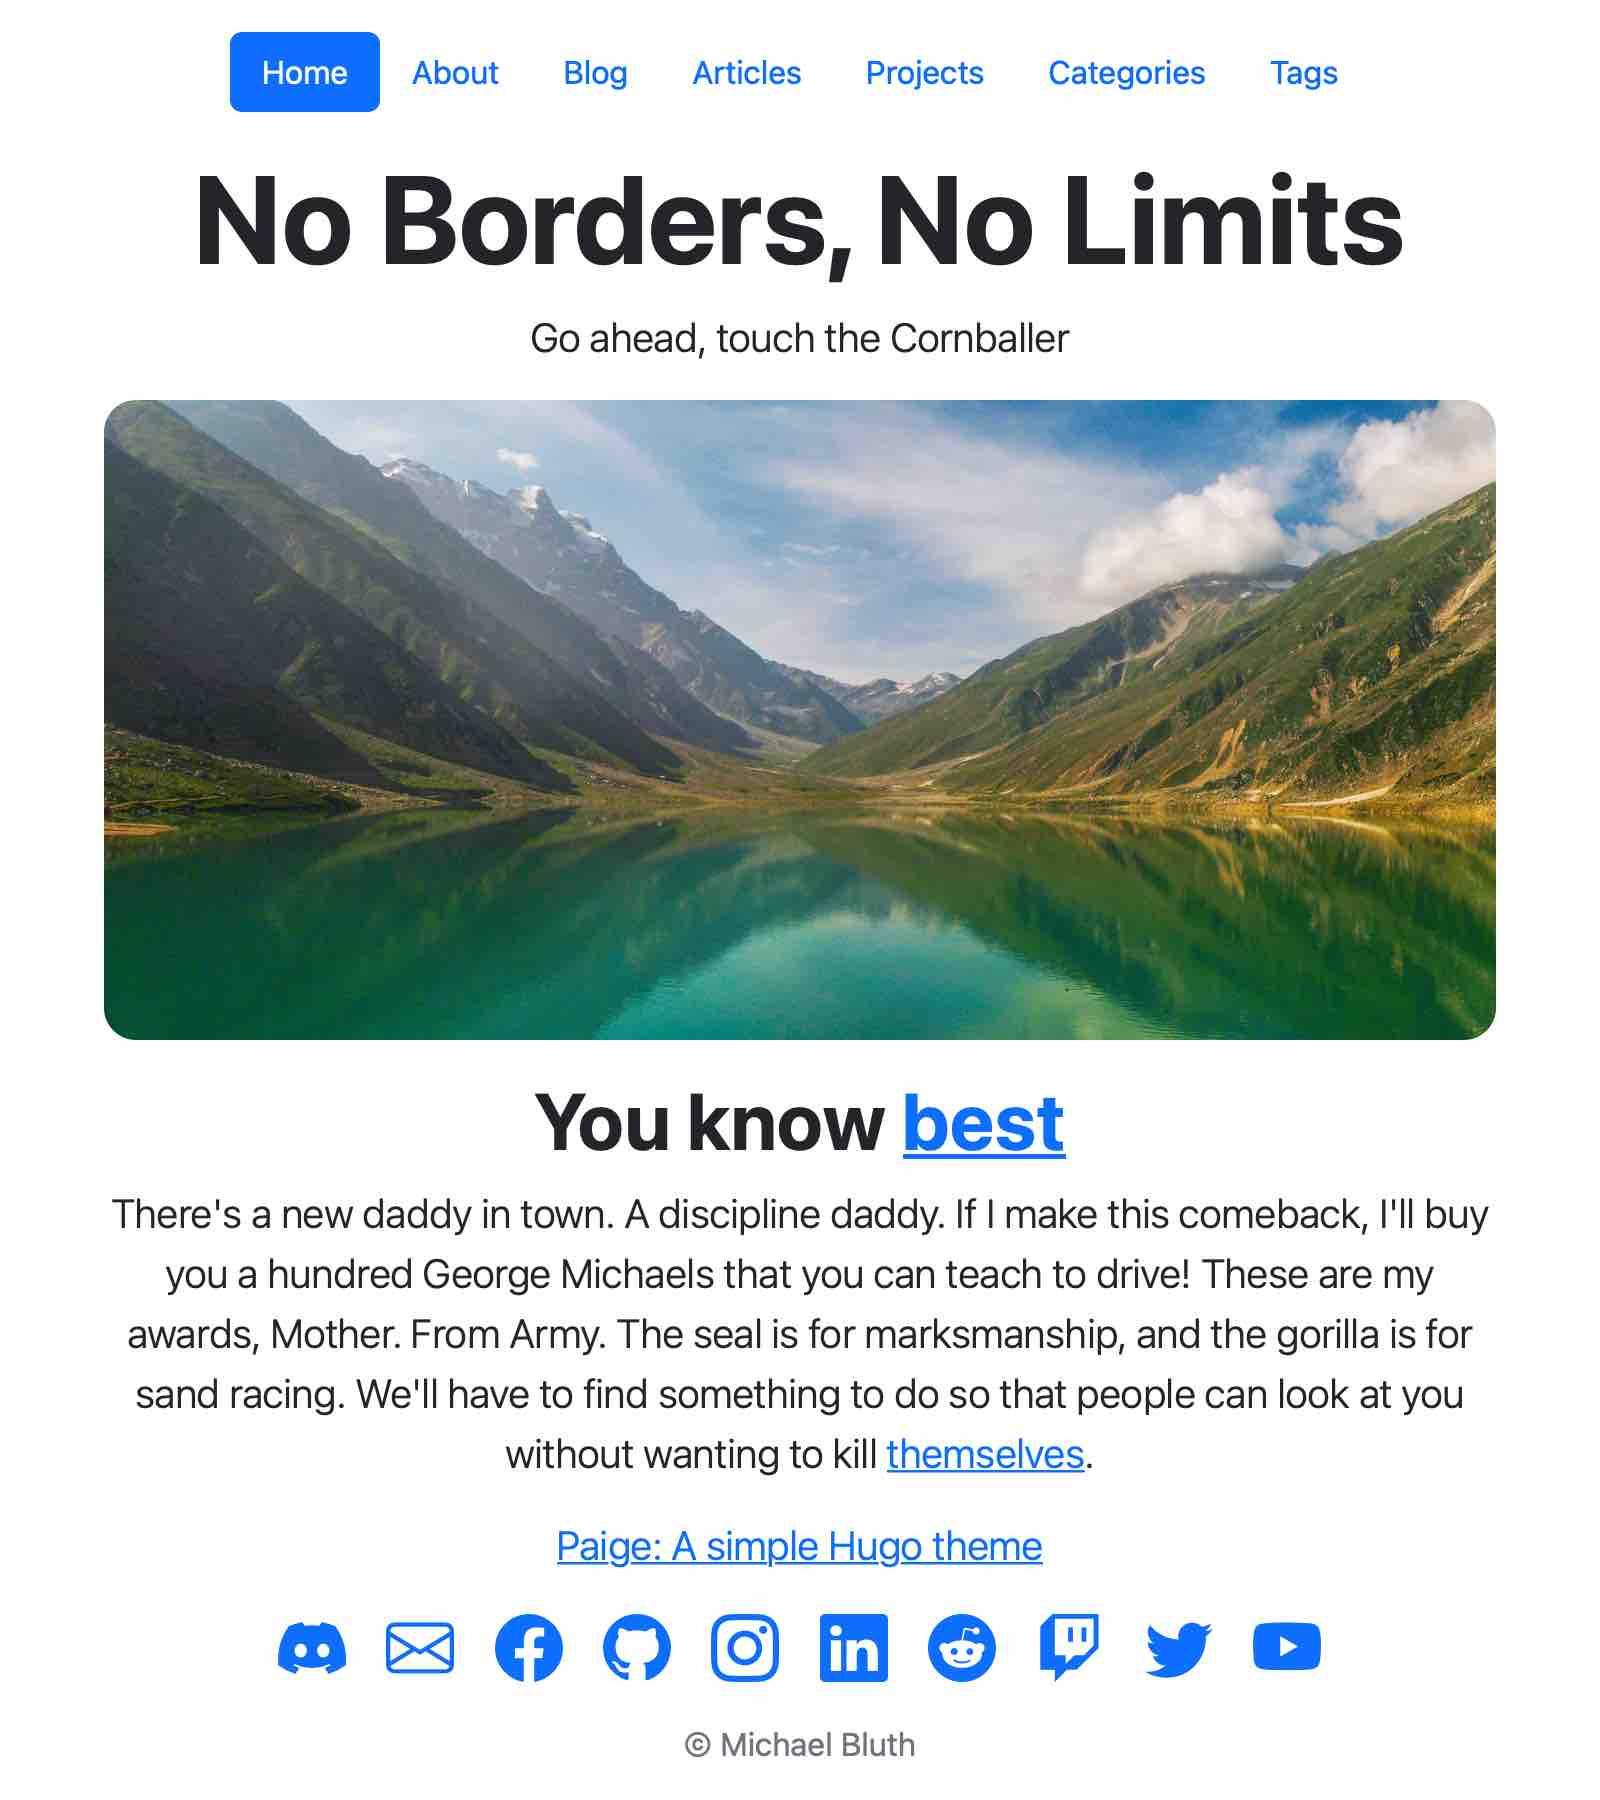
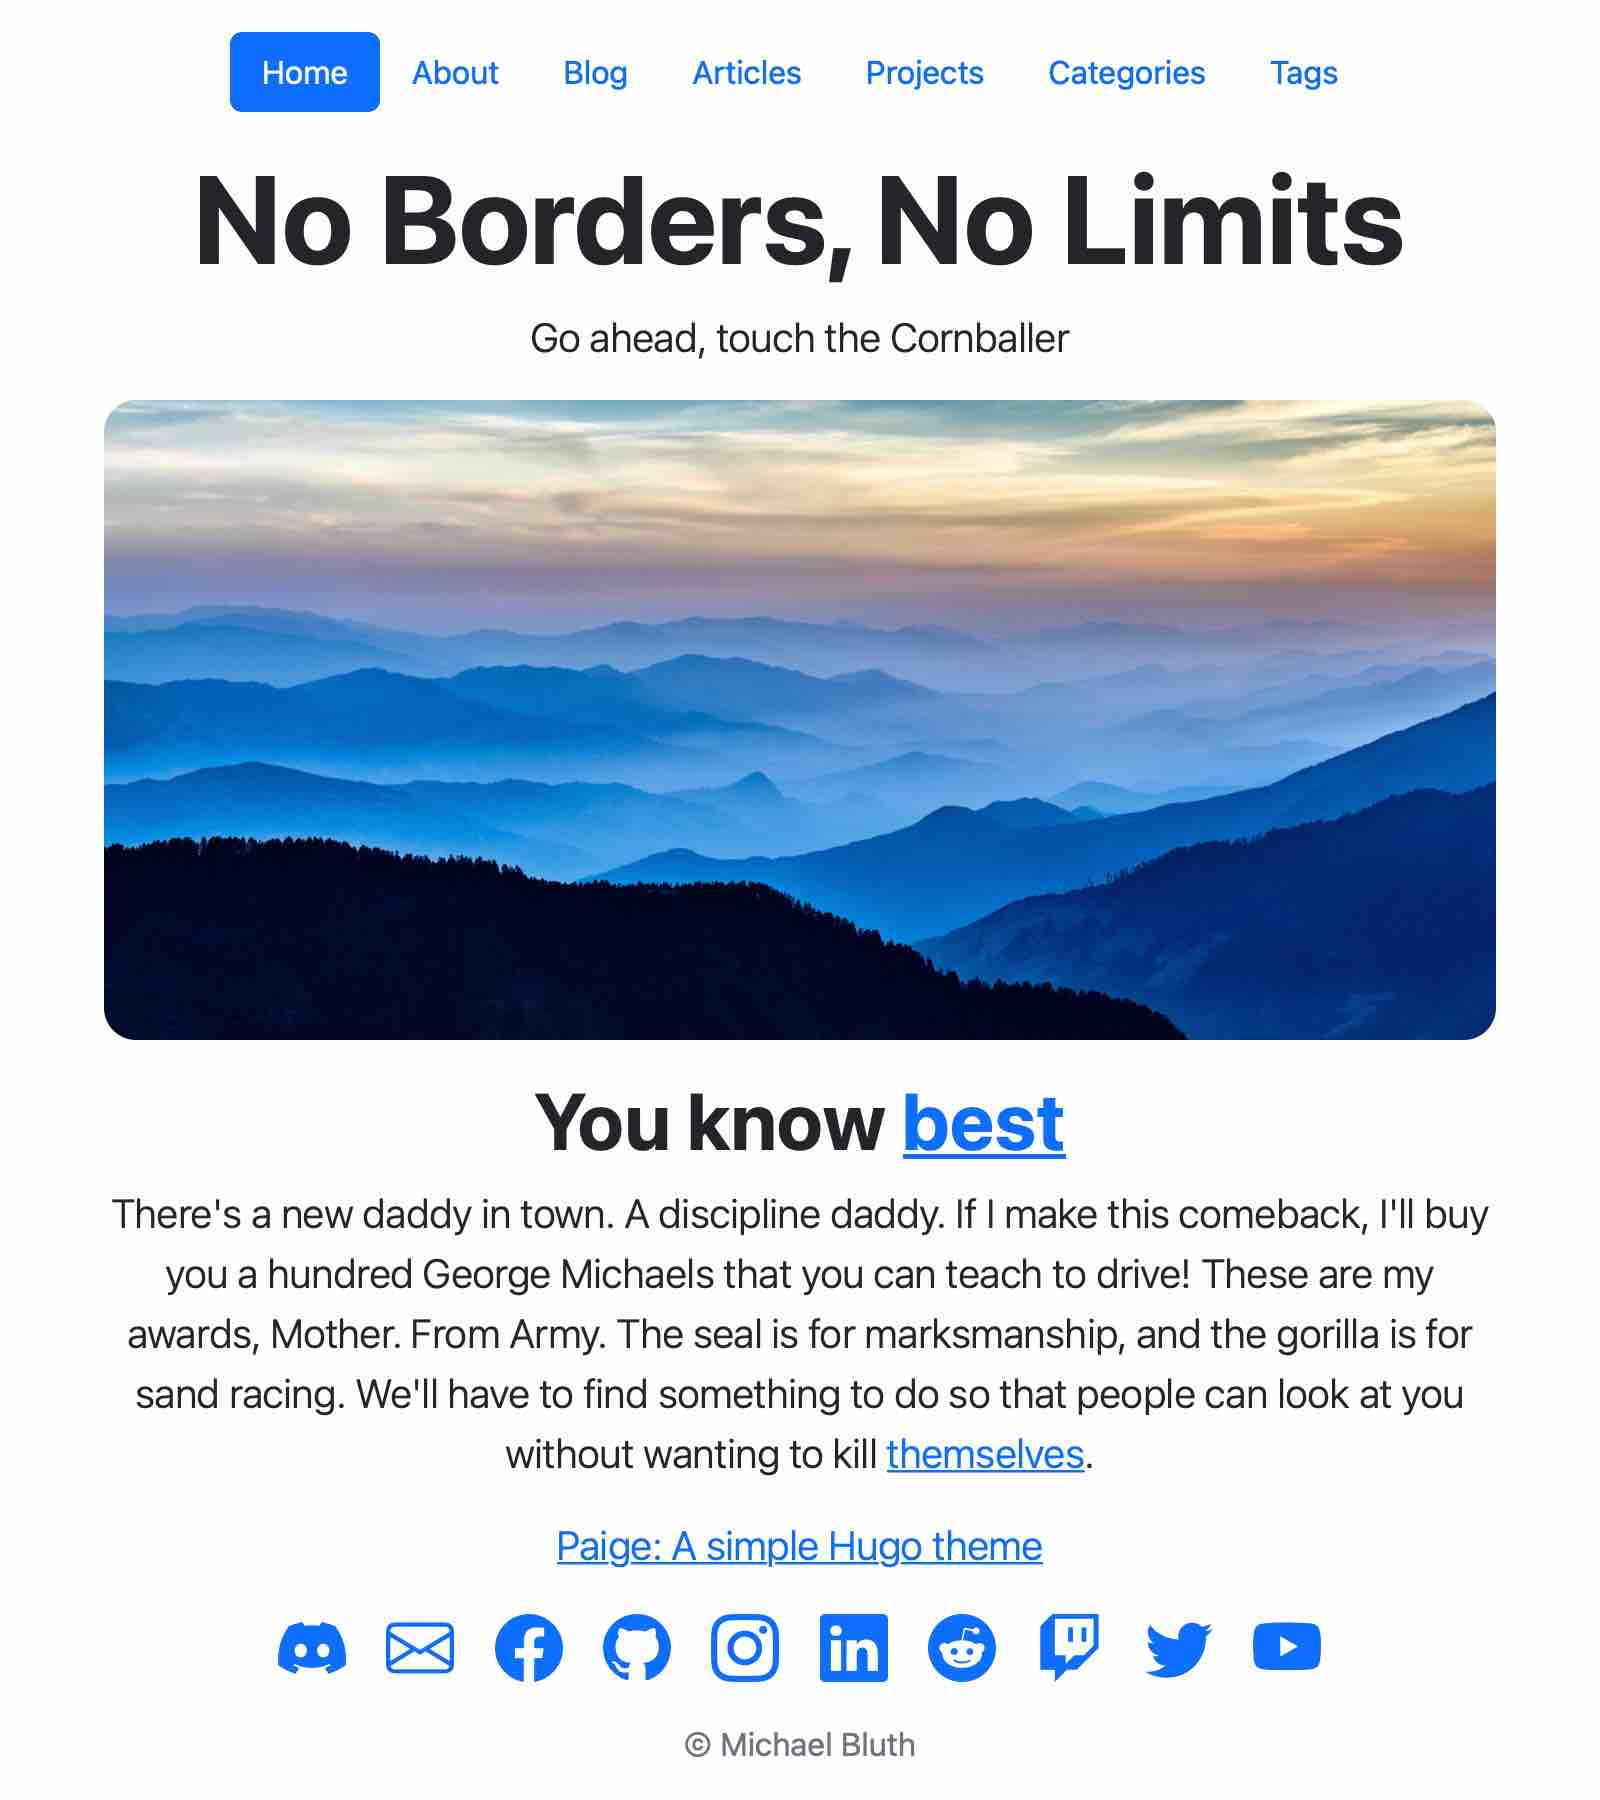
Change stretch image

diff --git a/exampleSite/content/_index.md b/exampleSite/content/_index.md
@@ -2,6 +2,6 @@
 blurb: "<p>There's a new daddy in town. A discipline daddy. If I make this comeback, I'll buy you a hundred George Michaels that you can teach to drive! These are my awards, Mother. From Army. The seal is for marksmanship, and the gorilla is for sand racing. We'll have to find something to do so that people can look at you without wanting to kill <a href=\"https://bluthipsum.com\">themselves</a>.</p><p><a href=\"https://github.com/willfaught/paige\">Paige: A simple Hugo theme</a></p>"
 description: Go ahead, touch the Cornballer
 greeting: You know [best](https://www.youtube.com/watch?v=1WDW8XKEGgU)
-stretch: cover.jpg
+stretch: stretch.jpg
 title: No Borders, No Limits
 ---

diff --git a/README.md b/README.md
@@ -118,5 +118,5 @@ See the example site directory for an example configuration.
 
 ## Credits
 
-- Avatar photo by [Yuvraj Singh](https://unsplash.com/photos/ljziSm0DXg8)
-- Cover photo by [Kamran Sabir](https://www.pexels.com/photo/green-lake-surrounded-by-mountain-127753/)
+- Center photo by [Yuvraj Singh](https://unsplash.com/photos/ljziSm0DXg8)
+- Stretch photo by [Sergey Pesterev](https://unsplash.com/photos/JV78PVf3gGI)
